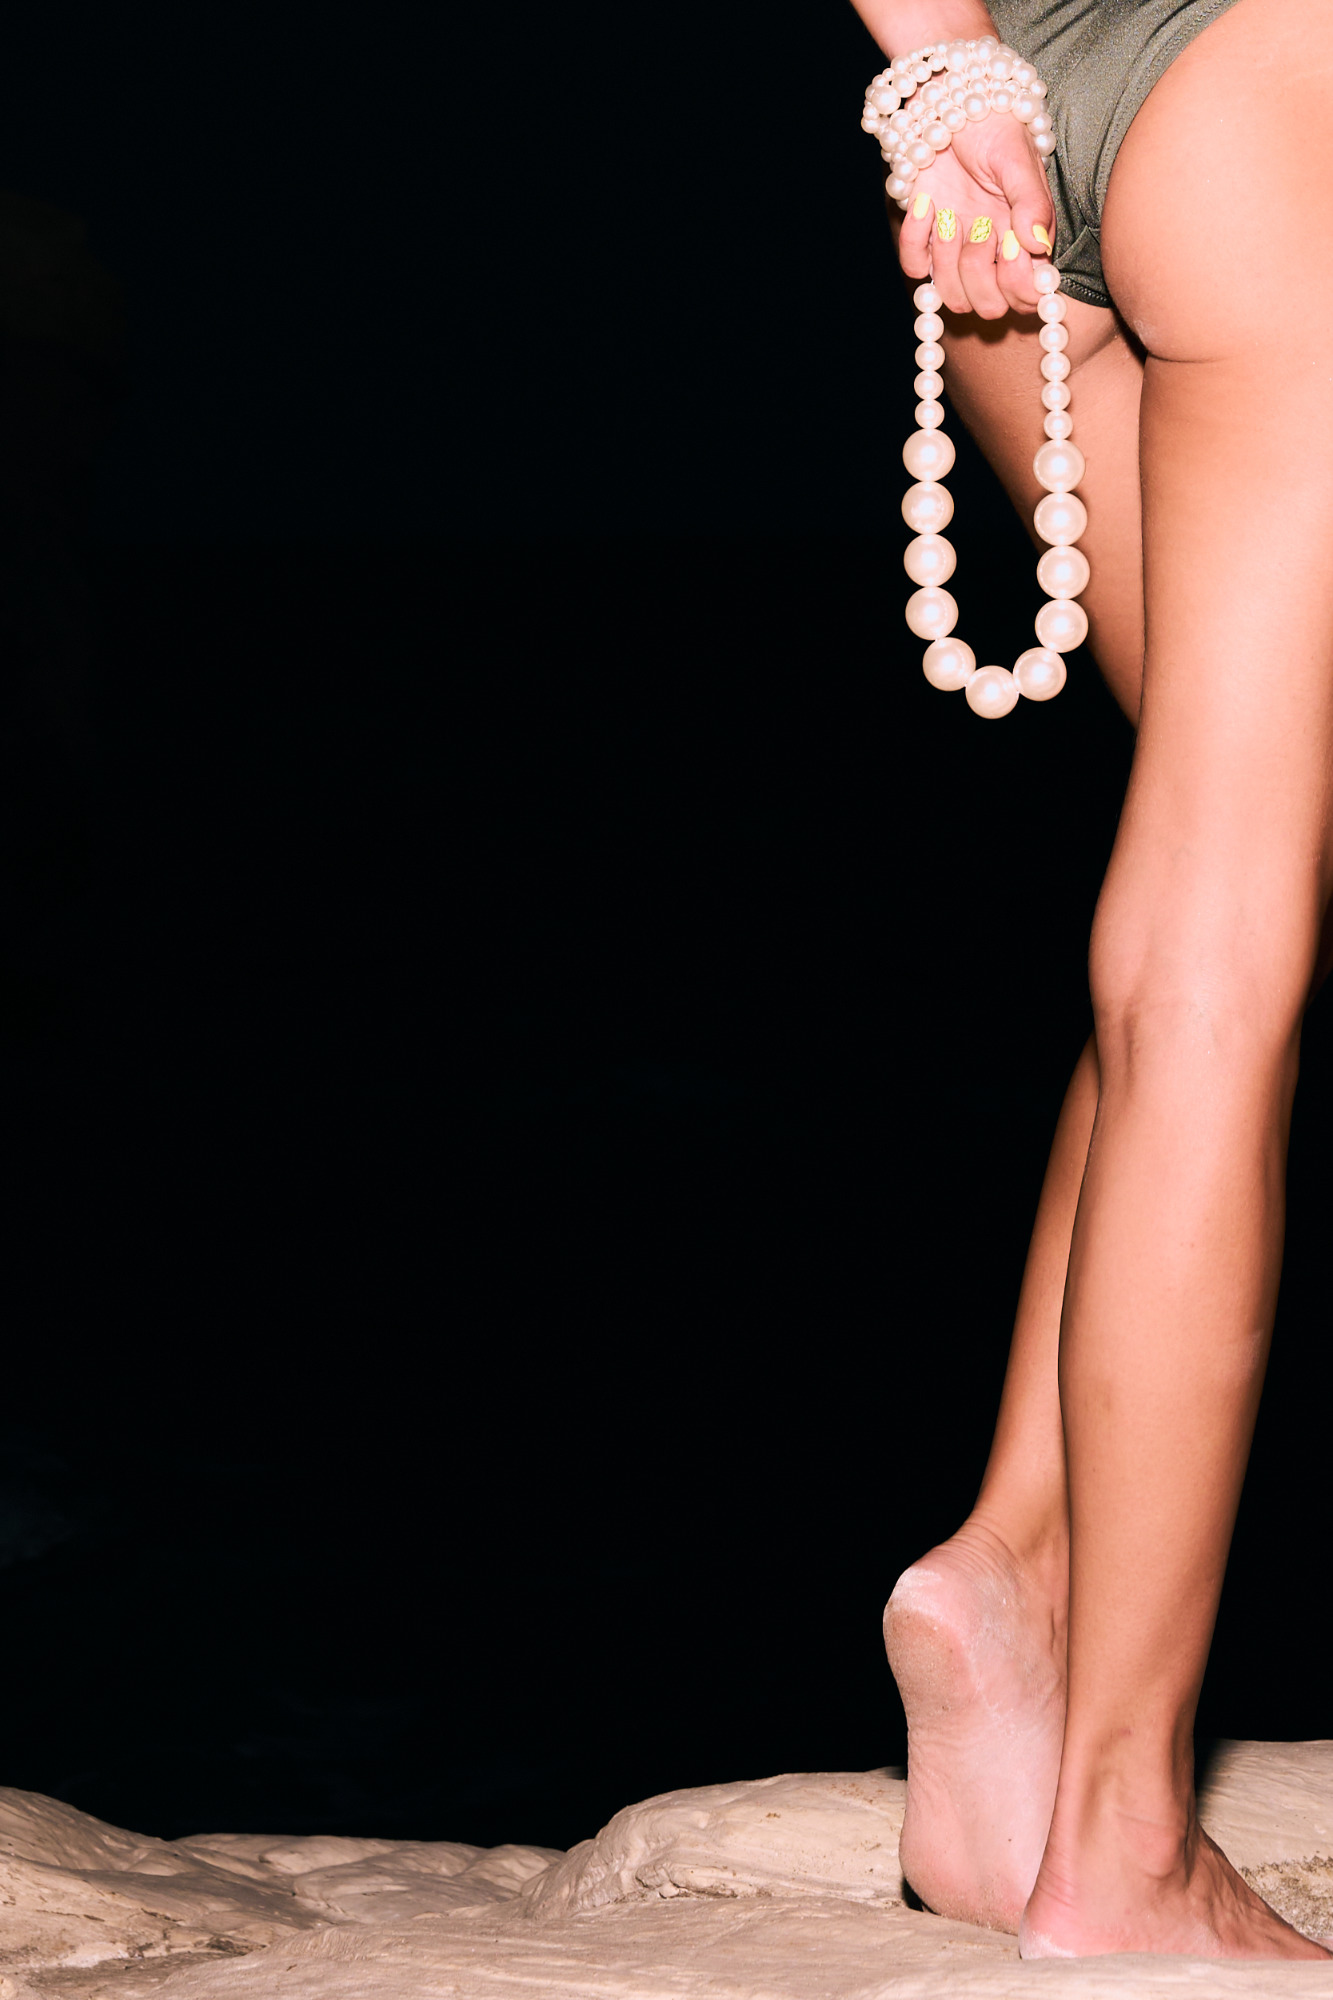
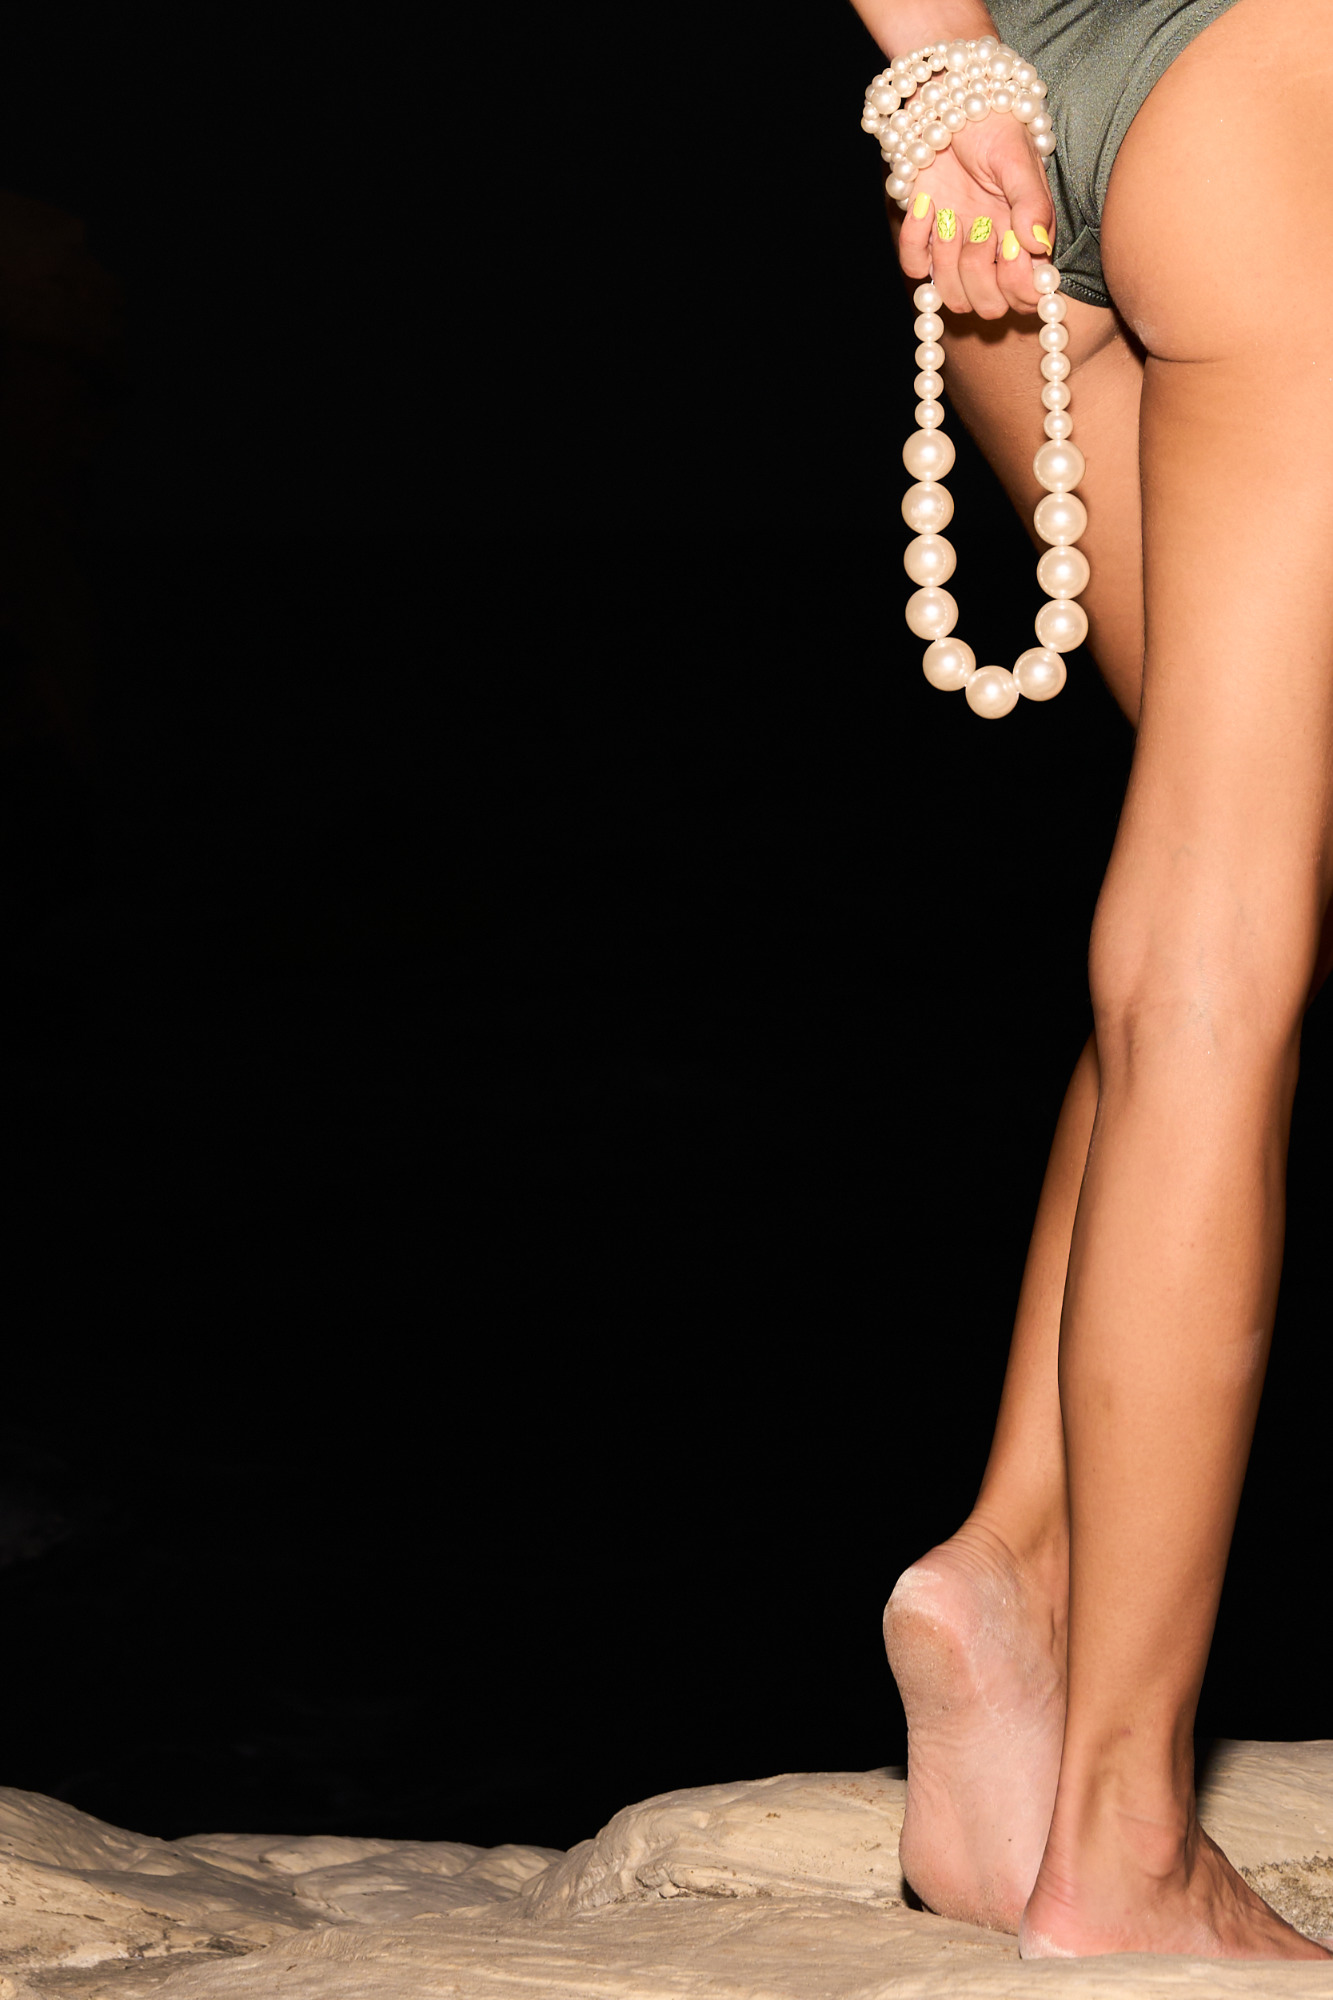
Update

diff --git a/docs/index.html b/docs/index.html
@@ -943,7 +943,7 @@
             </div>
             <div class="col-12 col-sm-8 col-md-6 col-lg-4 mb-4">
               <img
-                src="./photos/set29/7C201685 2.jpg"
+                src="./photos/set29/7C201685 1.jpg"
                 alt="Cyprus Fashion Photography"
                 class="img-fluid rounded shadow"
               />
